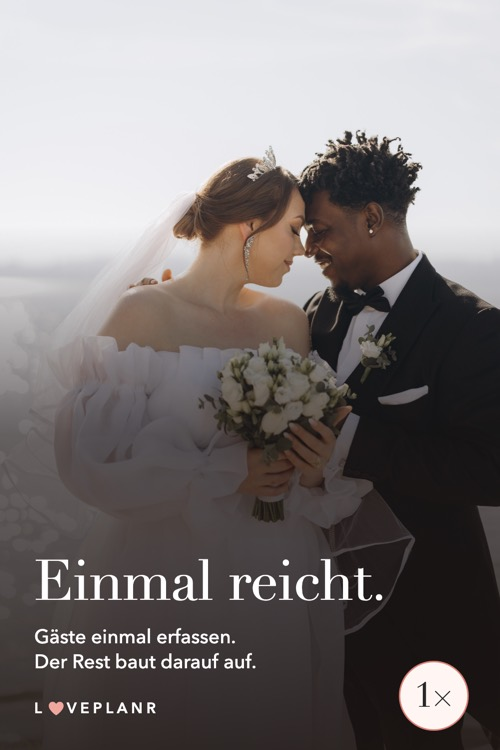
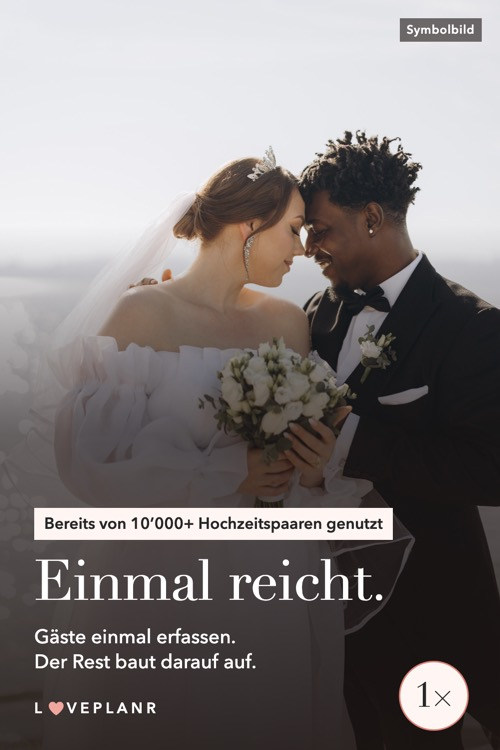
Add «10’000+ Hochzeitspaare» statement to pin 02
Prompt: «Die AUssage darf auf dem Pin platziert werden.»

Geändert:
- Pin 02: «Bereits von 10’000+ Hochzeitspaaren genutzt» wörtlich im Bild
  und in der Beschreibung, Foto als «Symbolbild» markiert
- Website und docs: Social Proof, offene Punkte, Quelle, Prompt-Log

Changed region(s): [[0.06, 0.6747, 0.81, 0.736], [0.78, 0.0, 0.99, 0.0613]]

diff --git a/index.html b/index.html
@@ -192,13 +192,13 @@
 </details>
 </article>
 <article class="pin hero-p">
-<a class="bild" href="assets/pins/02-einmal-reicht.jpg" aria-label="Pin 02 in voller Grösse"><img src="assets/pins/02-einmal-reicht-500.jpg" width="500" height="750" loading="lazy" alt="Pin 02: Einmal reicht. Gäste einmal erfassen. Der Rest baut darauf auf."></a>
+<a class="bild" href="assets/pins/02-einmal-reicht.jpg" aria-label="Pin 02 in voller Grösse"><img src="assets/pins/02-einmal-reicht-500.jpg" width="500" height="750" loading="lazy" alt="Pin 02: Bereits von 10’000+ Hochzeitspaaren genutzt. Einmal reicht. Gäste einmal erfassen. Der Rest baut darauf auf."></a>
 <p class="pin-tag"><span>02 · Hero</span></p>
 <h3>Hochzeit an einem Ort planen: Gäste nur einmal erfassen</h3>
 <details><summary>Beschreibung und Keywords</summary>
-<p>Webseite, Rückmeldungen, Sitzplan, Checkliste, Budget und digitale Karten im Komplettpaket. CHF 249, einmalig und ohne Abo. Die Gästeliste erfasst ihr nur einmal.</p>
+<p>Bereits von 10’000+ Hochzeitspaaren genutzt. Webseite, Rückmeldungen, Sitzplan, Checkliste, Budget und digitale Karten im Komplettpaket. CHF 249, einmalig und ohne Abo. Die Gästeliste erfasst ihr nur einmal.</p>
 <p><strong>Keywords:</strong> Hochzeit planen, Hochzeitsplanung Tools, Gästeliste Hochzeit</p>
-<p><strong>Prinzip:</strong> USP: alles an einem Ort</p>
+<p><strong>Prinzip:</strong> USP: alles an einem Ort, Social Proof</p>
 </details>
 </article>
 <article class="pin hero-p">
@@ -422,7 +422,7 @@
     <div class="prinz">
       <article><img src="assets/pins/08-gratis-checkliste-500.jpg" width="500" height="750" loading="lazy" alt="Pin 08: Gratis Hochzeits-Checkliste."><div><h3>Reciprocity</h3><p>Paare bekommen zuerst etwas Nützliches und geben danach ihre E-Mail-Adresse.</p><p class="wo">Pin 08, neue Zielseite als Vorschlag</p></div></article>
       <article><img src="assets/pins/03-mehr-vorfreude-500.jpg" width="500" height="750" loading="lazy" alt="Pin 03: Weniger Planungschaos. Mehr Vorfreude."><div><h3>Commitment &amp; Consistency</h3><p>Wer die eigene Seite schon gebaut hat, bleibt eher dabei. Darum zuerst kostenlos erstellen und testen, das Paket erst später wählen.</p><p class="wo">Pin 03, Wortlaut von Loveplanr</p></div></article>
-      <article><img src="assets/pins/04-melek-rafael-500.jpg" width="500" height="750" loading="lazy" alt="Pin 04: Zitat von Melek und Rafael, mit Symbolbild."><div><h3>Social Proof</h3><p>Paare orientieren sich an anderen Paaren. Darum stehen echte Aussagen auf den Pins. Später kommen ganze Geschichten mit dem Hinweis «Erstellt mit Loveplanr» dazu.</p><p class="wo">Pins 04, 05 und 06, Zitate von loveplanr.com</p></div></article>
+      <article><img src="assets/pins/04-melek-rafael-500.jpg" width="500" height="750" loading="lazy" alt="Pin 04: Zitat von Melek und Rafael, mit Symbolbild."><div><h3>Social Proof</h3><p>Paare orientieren sich an anderen Paaren. Darum stehen echte Aussagen und die Nutzerzahl von Loveplanr auf den Pins. Später kommen ganze Geschichten mit dem Hinweis «Erstellt mit Loveplanr» dazu.</p><p class="wo">Pin 02 mit Nutzerzahl, Pins 04 bis 06 mit Zitaten, alles von loveplanr.com</p></div></article>
       <article><img src="assets/pins/07-partner-500.jpg" width="500" height="750" loading="lazy" alt="Pin 07: Gute Partner für euren grossen Tag."><div><h3>Authority</h3><p>Das Urteil einer Hochzeitsplanerin oder eines Hochzeitsmagazins wiegt mehr als eigene Werbung. Bis zur ersten Zusage verweist der Pin auf die Partner von Loveplanr.</p><p class="wo">Pin 07, Startfassung</p></div></article>
       <article><img src="assets/pins/06-feierabend-500.jpg" width="500" height="750" loading="lazy" alt="Pin 06: Feierabend statt Excel-Abend."><div><h3>Liking</h3><p>Eine Micro- oder Nano-Creatorin aus der Deutschschweiz zeigt die eigene Planung im Video-Pin, als bezahlte Partnerschaft gekennzeichnet. Bis dahin trägt ein Motiv mit Augenzwinkern den Pin.</p><p class="wo">Pin 06, Startfassung</p></div></article>
     </div>
@@ -457,7 +457,7 @@
       <li>Längere Paar-Geschichten, Screenshots und Einwilligungen für weitere Hub-Pins</li>
       <li>Originallogo und exakte Farbwerte</li>
       <li>Bestätigung der Preise in CHF und der Aussage zu Rückmeldungen ohne Konto</li>
-      <li>Ob die Paarzitate auch auf Pinterest erscheinen dürfen, und ob «10'000+ Hochzeitspaare» übernommen wird</li>
+      <li>Ob die Paarzitate auch auf Pinterest erscheinen dürfen, und ob «10’000+ Hochzeitspaare» aktuell ist</li>
       <li>Zielseite für die Gratis-Checkliste</li>
       <li>Startdatum, Budget für den Test und Weitergabe der UTM-Werte bis zum Kauf</li>
     </ul>

diff --git a/tools/make_pins.py b/tools/make_pins.py
@@ -26,16 +26,18 @@ img.bg{position:absolute;inset:0;width:100%;height:100%;object-fit:cover}
 .list .block{position:absolute;inset:430px 0 0 0;padding:56px 68px;background:#fff6f3}.list h1{font-size:84px;margin-bottom:38px}
 .list ol{list-style:none;padding:0}.list li{font-size:42px;font-weight:500;display:flex;align-items:center;gap:30px;padding:17px 0;border-top:2px solid #e8d8d2}
 .list b{font:400 58px Didot,Georgia,serif;color:#db7f74;width:48px}.list .logo{position:absolute;left:68px;bottom:50px}
+.proof{display:inline-block;background:#fff6f3;color:#262626;font-size:32px;font-weight:600;padding:10px 20px;margin-bottom:26px}
 .sym{position:absolute;top:36px;right:36px;font-size:24px;font-weight:600;letter-spacing:.04em;color:#fff;background:rgba(25,18,16,.6);padding:7px 14px}
 .stamp{position:absolute;right:68px;bottom:44px;width:128px;height:128px;border-radius:50%;display:flex;align-items:center;justify-content:center;font:400 68px Didot,Georgia,serif;background:#fff6f3;color:#262626;box-shadow:0 0 0 3px #fff6f3,0 0 0 6px #db7f74}
 """
 def stamp(p): return '<div class="stamp">1×</div>' if p.get("stamp") else ""
+def proof(p): return f'<p class="proof">{p["proof"]}</p>' if p.get("proof") else ""
 def sym(p): return '<div class="sym">Symbolbild</div>' if p.get("symbol") else ""
 def hs(p): return f' style="font-size:{p["hsize"]}px;line-height:1.14"' if p.get("hsize") else ""
 def body(p, photo):
     e = lambda s: s  # Inhalte stammen aus pins_data.py und enthalten bewusst <br>
     if p["layout"] == "photo":
-        return f'<body class="photo {p["place"]}"><img class="bg" src="{photo}" style="object-position:{p["pos"]}"><div class="shade"></div><div class="txt"><h1{hs(p)}>{e(p["head"])}</h1><p class="sub">{e(p["sub"])}</p></div>{LOGO}{stamp(p)}{sym(p)}</body>'
+        return f'<body class="photo {p["place"]}"><img class="bg" src="{photo}" style="object-position:{p["pos"]}"><div class="shade"></div><div class="txt">{proof(p)}<h1{hs(p)}>{e(p["head"])}</h1><p class="sub">{e(p["sub"])}</p></div>{LOGO}{stamp(p)}{sym(p)}</body>'
     if p["layout"] == "split":
         return f'<body class="split {p["color"]}"><div class="pic"><img src="{photo}" style="object-position:{p["pos"]}"></div><div class="block"><h1>{e(p["head"])}</h1><p class="sub">{e(p["sub"])}</p>{LOGO}{stamp(p)}</div></body>'
     if p["layout"] == "list":

diff --git a/tools/pins_data.py b/tools/pins_data.py
@@ -7,11 +7,11 @@ PINS = [
   title="Hochzeitswebseite ohne Abo: einmal Ja, einmal zahlen",
   desc="Hochzeitswebseite, Rückmeldungen, Gästeliste, Wunschliste und Fotogalerie an einem Ort. Ab CHF 149, einmalig und ohne Abo. Kostenlos ausprobieren, Paket erst später wählen.",
   kw="Hochzeitswebseite, Hochzeitswebseite erstellen, Hochzeit planen Schweiz", path="/preise/", principle="USP: einmaliger Preis", status=""),
- dict(id="02-einmal-reicht", board="Hero", layout="photo", photo="elegant-bride-and-groom-embrace-by-the-water-2026-01-08-02-08-06-utc.jpg", pos="50% 35%", place="bottom", stamp=True,
+ dict(id="02-einmal-reicht", board="Hero", layout="photo", photo="elegant-bride-and-groom-embrace-by-the-water-2026-01-08-02-08-06-utc.jpg", pos="50% 35%", place="bottom", stamp=True, symbol=True, proof="Bereits von 10’000+ Hochzeitspaaren genutzt",
   head="Einmal reicht.", sub="Gäste einmal erfassen.<br>Der Rest baut darauf auf.",
   title="Hochzeit an einem Ort planen: Gäste nur einmal erfassen",
-  desc="Webseite, Rückmeldungen, Sitzplan, Checkliste, Budget und digitale Karten im Komplettpaket. CHF 249, einmalig und ohne Abo. Die Gästeliste erfasst ihr nur einmal.",
-  kw="Hochzeit planen, Hochzeitsplanung Tools, Gästeliste Hochzeit", path="/komplettpaket/", principle="USP: alles an einem Ort", status=""),
+  desc="Bereits von 10’000+ Hochzeitspaaren genutzt. Webseite, Rückmeldungen, Sitzplan, Checkliste, Budget und digitale Karten im Komplettpaket. CHF 249, einmalig und ohne Abo. Die Gästeliste erfasst ihr nur einmal.",
+  kw="Hochzeit planen, Hochzeitsplanung Tools, Gästeliste Hochzeit", path="/komplettpaket/", principle="USP: alles an einem Ort, Social Proof", status=""),
  dict(id="03-mehr-vorfreude", board="Hero", layout="photo", photo="joyful-groom-lifting-bride-in-sunny-park-during-we-2026-09-25-03-54-22-utc.jpg", pos="50% 30%", place="bottom",
   head="Weniger Planungschaos.<br>Mehr Vorfreude.", sub="Hochzeitswebseite kostenlos erstellen. Paket erst später wählen.",
   title="Hochzeitswebseite kostenlos erstellen, Paket erst später wählen",

diff --git a/tools/build_site.py b/tools/build_site.py
@@ -28,6 +28,7 @@ def url(p): return p["path"] if p["path"].startswith("http") else SITE + p["path
 
 def alt(p):
     bits = [plain(p["head"])]
+    if p.get("proof"): bits.insert(0, p["proof"] + ".")
     if p.get("sub"): bits.append(plain(p["sub"]))
     if p.get("steps"): bits.append(", ".join(p["steps"]))
     return f"Pin {p['id'][:2]}: " + " ".join(bits)

diff --git a/docs/prompt-log.md b/docs/prompt-log.md
@@ -42,7 +42,8 @@ Team selbst, ohne KI. Es gehört nicht zu diesem Log.
 
 | 24 | «[12 Fotos] Hier hat es noch mehr fotos, du hast zu viele Placeholder verwendet» | Die vier Hub-Pins neu geschrieben und mit den neuen Fotos gestaltet. Sie behaupten nichts über Kunden und laufen als Startfassung, bis echtes Material vorliegt. Pins 09 und 10 mit passenderen Fotos, neue Fotos auf der Website bei Boards, Personas und in einem Bildstreifen. | `d007ae1` |
 
-| 25 | «ass sie ohne Kundenaussage funktionieren und mit de, du darfst auch kundenaussagen daraufpacken.» (nimmt Bezug auf eine Zwischennachricht der KI) | Echte Zitate wörtlich von loveplanr.com geholt und auf die Pins 04, 05 und 06 gesetzt, Fotos dort als «Symbolbild» markiert. Die Zitate stehen auch im Bereich 8 der Website. | dieser Commit |
+| 25 | «ass sie ohne Kundenaussage funktionieren und mit de, du darfst auch kundenaussagen daraufpacken.» (nimmt Bezug auf eine Zwischennachricht der KI) | Echte Zitate wörtlich von loveplanr.com geholt und auf die Pins 04, 05 und 06 gesetzt, Fotos dort als «Symbolbild» markiert. Die Zitate stehen auch im Bereich 8 der Website. | `e425332` |
+| 26 | «Die AUssage darf auf dem Pin platziert werden.» (Antwort auf die Rückfrage der KI zu «Bereits von 10’000+ Hochzeitspaaren genutzt») | Aussage wörtlich auf Pin 02 und in dessen Beschreibung gesetzt. Nicht auf Pin 01, weil dieser im Promoted-Test gegen Pin 09 läuft und nur die Botschaft Preis oder Hilfe vergleichen soll. | dieser Commit |
 
 Die Prompts 20 bis 23 gehören zur selben Iteration, weil der Bau über Nacht unterbrochen wurde. Darum gibt es dafür einen gemeinsamen Commit.
 

diff --git a/docs/quellen-und-platzhalter.md b/docs/quellen-und-platzhalter.md
@@ -33,6 +33,10 @@ Alle Zitate stammen wörtlich von https://loveplanr.com/ und https://loveplanr.c
 | 05 | «Die Webseite war super schnell erstellt und unsere Gäste hatten alle wichtigen Informationen an einem Ort.» | Aline & Josia |
 | 06 | «Wir hatten Gästeliste, Sitzplan und Einladungen endlich an einem Ort.» | Sabine & Markus |
 
+## Nutzerzahl auf Pin 02
+
+«Bereits von 10’000+ Hochzeitspaaren genutzt» steht wörtlich auf https://loveplanr.com/hochzeitswebsite/ (abgerufen am 05.11.2026). Der Nutzer hat die Verwendung freigegeben. Es ist eine Angabe von Loveplanr, die das Team nicht selbst geprüft hat.
+
 ## Startfassungen und Vorschläge
 
 | Element | Heute | Später | Von wem |
@@ -47,7 +51,6 @@ Alle Zitate stammen wörtlich von https://loveplanr.com/ und https://loveplanr.c
 ## Was wir bewusst nicht zeigen
 
 - Suchvolumen und Benchmarks: keine belegten Zahlen vorhanden.
-- «10'000+ Hochzeitspaare»: steht auf loveplanr.com, wird aber erst nach Bestätigung übernommen.
 - Budget, Kundenziel und Namen der Gründer.
 
 ## Fotos
